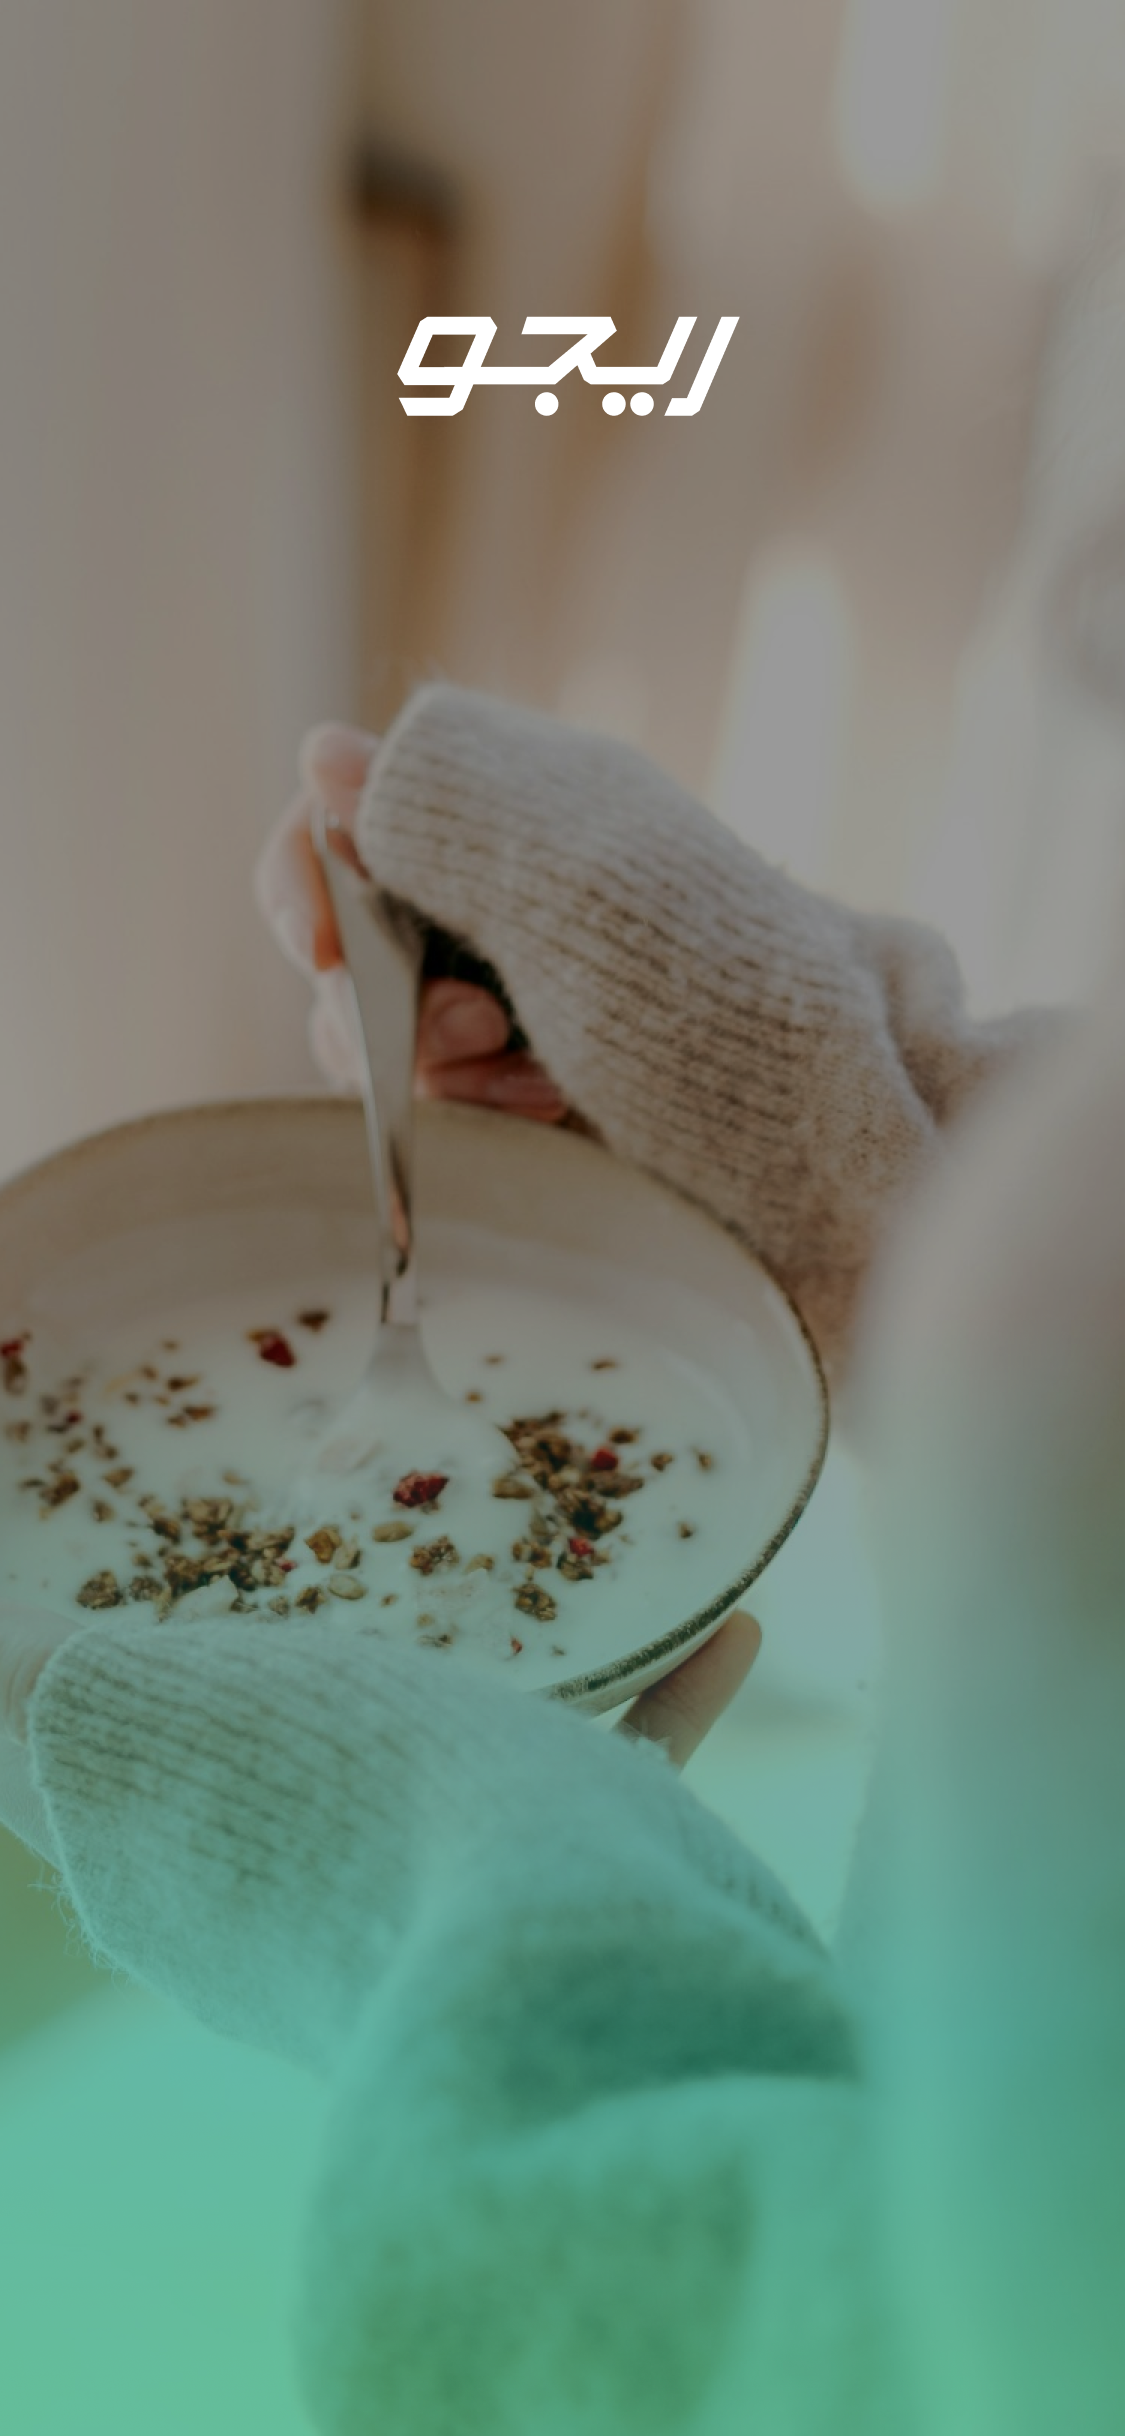
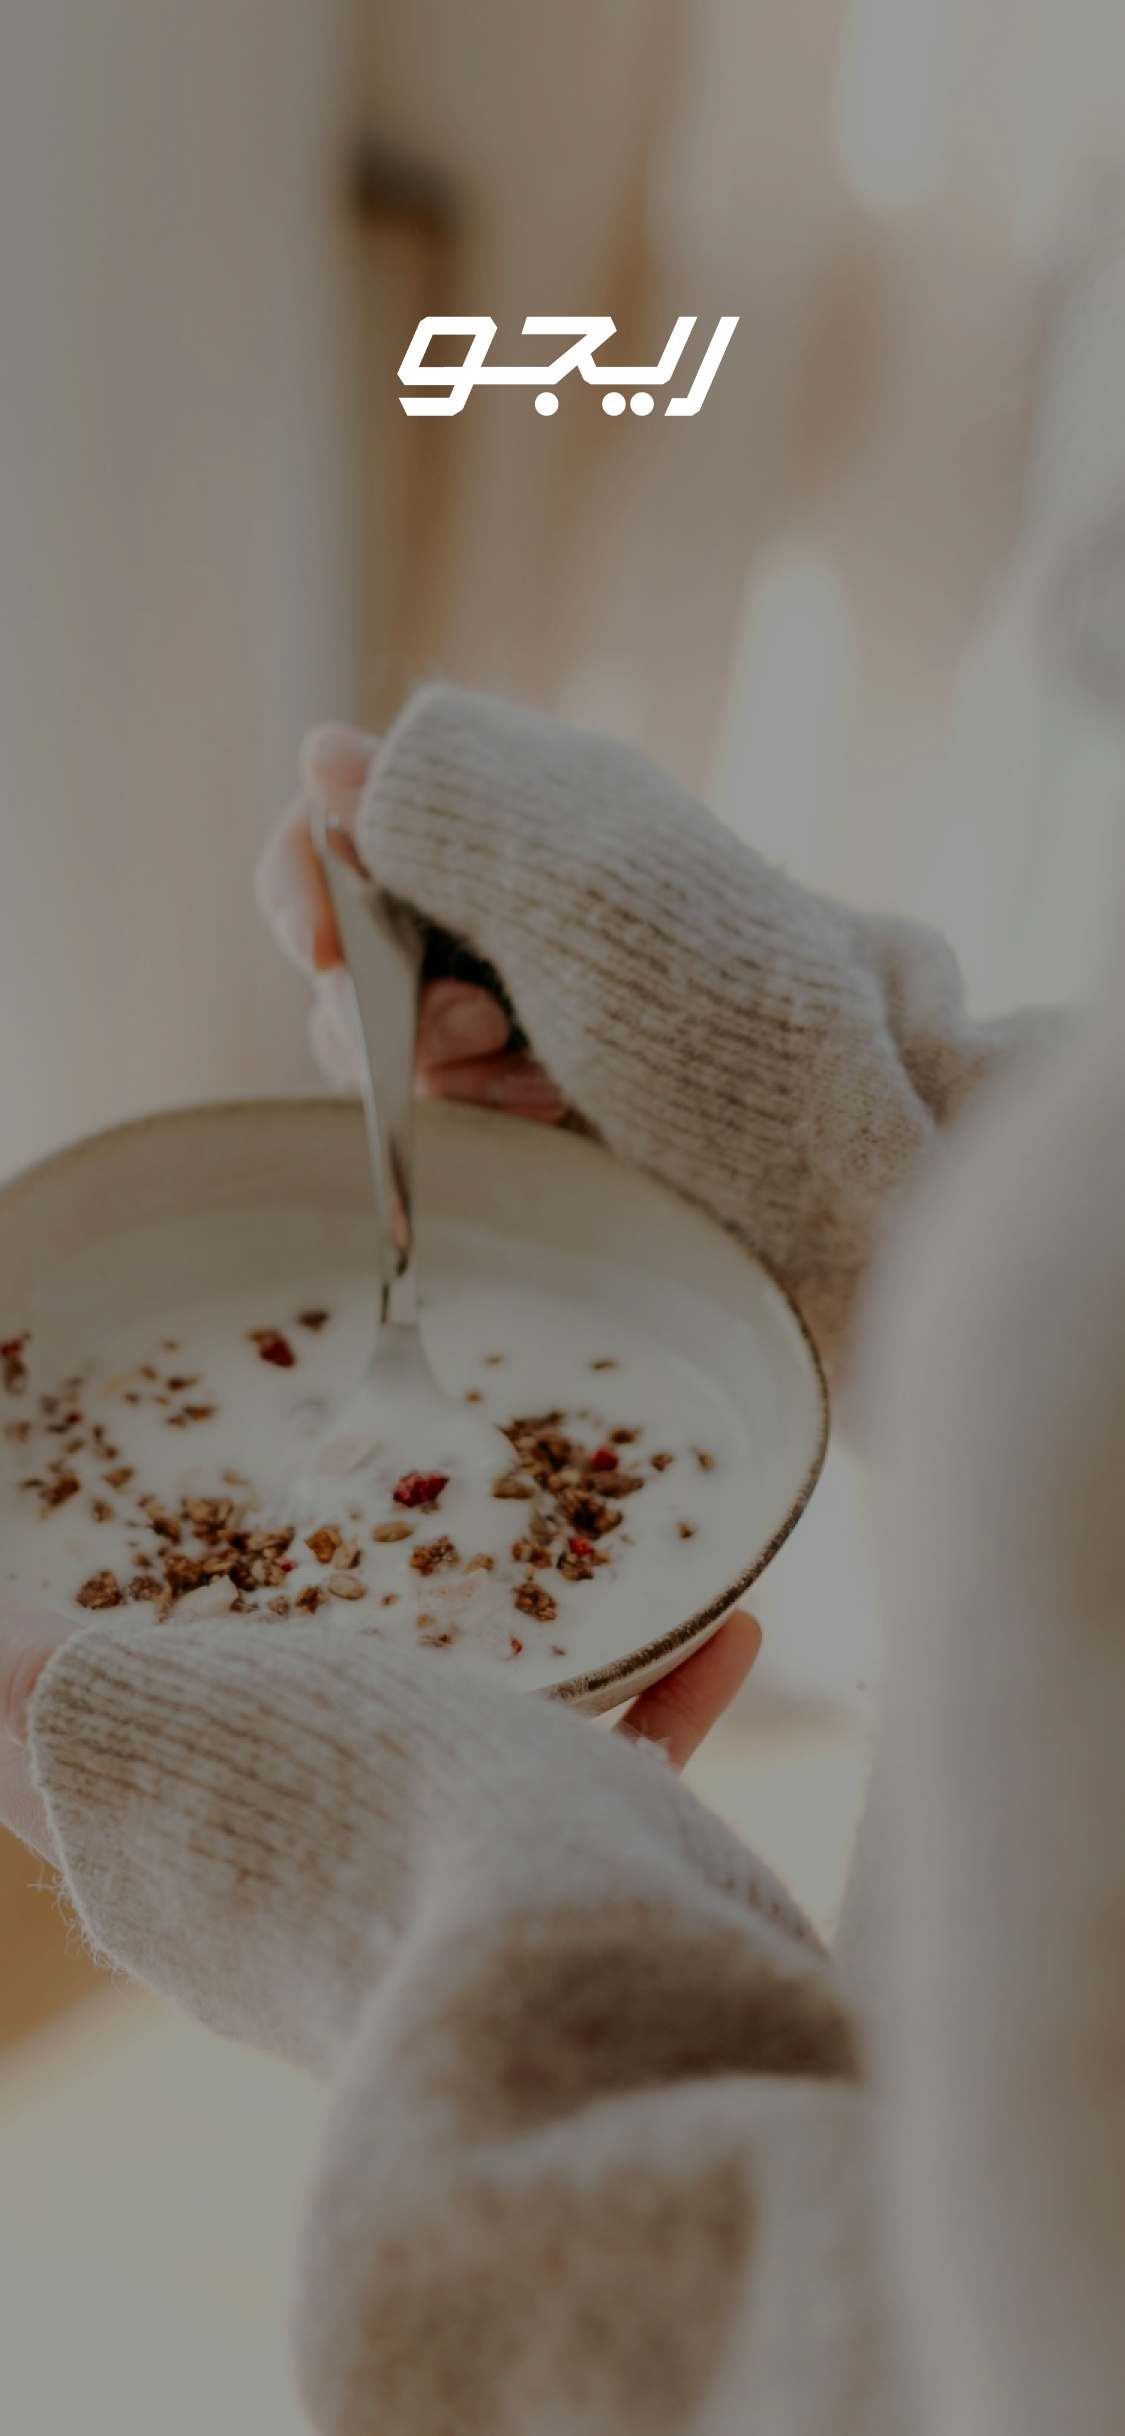
fix onboarding

diff --git a/lib/features/onboarding/screens/onboarding_page.dart b/lib/features/onboarding/screens/onboarding_page.dart
@@ -51,6 +51,7 @@ class _OnboardingScreenState extends State<OnboardingScreen> {
                     return OnboardingBody(
                       image: onboardingList[i].image,
                       title: onboardingList[i].title,
+                      colors: onboardingList[i].colors,
                       position: i,
                     );
                   },
@@ -59,7 +60,22 @@ class _OnboardingScreenState extends State<OnboardingScreen> {
             ],
           ),
           Stack(
+            alignment: Alignment.bottomCenter,
             children: [
+              IgnorePointer(
+                child: AnimatedContainer(
+                  duration: const Duration(milliseconds: 400),
+                  curve: Curves.easeIn,
+                  height: appHight(context, 0.5),
+                  decoration: BoxDecoration(
+                    gradient: LinearGradient(
+                      colors: onboardingList[currentPage].colors,
+                      begin: Alignment.bottomCenter,
+                      end: Alignment.topCenter,
+                    ),
+                  ),
+                ),
+              ),
               Padding(
                 padding: EdgeInsets.symmetric(
                     vertical: appHight(context, 0.1), horizontal: 16),
@@ -69,10 +85,12 @@ class _OnboardingScreenState extends State<OnboardingScreen> {
                   children: [
                     Padding(
                       padding: const EdgeInsets.symmetric(horizontal: 16),
-                      child: Text(
-                        onboardingList[currentPage].title,
-                        textAlign: TextAlign.center,
-                        style: AppTexts.subTitle,
+                      child: IgnorePointer(
+                        child: Text(
+                          onboardingList[currentPage].title,
+                          textAlign: TextAlign.center,
+                          style: AppTexts.subTitle,
+                        ),
                       ),
                     ),
                     const SizedBox(height: 46),
@@ -157,11 +175,13 @@ class OnboardingBody extends StatelessWidget {
     required this.position,
     required this.image,
     required this.title,
+    required this.colors,
   });
 
   final String image;
   final String title;
   final int position;
+  final List<Color> colors;
 
   @override
   Widget build(BuildContext context) {

diff --git a/lib/features/onboarding/widgets/onboarding_widget.dart b/lib/features/onboarding/widgets/onboarding_widget.dart
@@ -1,13 +1,15 @@
 // onboarding_model.dart
 
 import 'package:flutter/material.dart';
+import 'package:rigow/core/colors/app_colors.dart';
 import 'package:rigow/l10n/app_localizations.dart';
 
 class Onboarding {
   final String image;
   final String title;
+  final List<Color> colors;
 
-  Onboarding({required this.image, required this.title});
+  Onboarding({required this.image, required this.title, required this.colors});
 }
 
 List<Onboarding> createUserOnboardingList(BuildContext context) {
@@ -17,16 +19,19 @@ List<Onboarding> createUserOnboardingList(BuildContext context) {
       image:
           isArabic ? "assets/images/ar1.png" : "assets/images/onboarding1.png",
       title: AppLocalizations.of(context)!.onboarding1,
+      colors: AppColors.onbording1,
     ),
     Onboarding(
       image:
           isArabic ? "assets/images/ar2.png" : "assets/images/onboarding2.png",
       title: AppLocalizations.of(context)!.onboarding2,
+      colors: AppColors.onbording2,
     ),
     Onboarding(
       image:
           isArabic ? "assets/images/ar3.png" : "assets/images/onboarding3.png",
       title: AppLocalizations.of(context)!.onboarding3,
+      colors: AppColors.onbording3,
     ),
   ];
 }
@@ -39,17 +44,20 @@ List<Onboarding> createExpertOnboardingList(BuildContext context) {
           ? "assets/images/arexonboarding1.png"
           : "assets/images/exonboarding1.png",
       title: AppLocalizations.of(context)!.exonboarding1,
+      colors: AppColors.onbording1,
     ),
     Onboarding(
       image: isArabic
           ? "assets/images/arexonboarding2.png"
           : "assets/images/exonboarding2.png",
       title: AppLocalizations.of(context)!.exonboarding2,
+      colors: AppColors.onbording2,
     ),
     Onboarding(
       image:
           isArabic ? "assets/images/ar3.png" : "assets/images/onboarding3.png",
       title: AppLocalizations.of(context)!.onboarding3,
+      colors: AppColors.onbording3,
     ),
   ];
 }

diff --git a/lib/core/colors/app_colors.dart b/lib/core/colors/app_colors.dart
@@ -36,4 +36,21 @@ class AppColors {
     Color(0xff04FFAA),
     Color(0xff00F2D0),
   ];
+
+  static List<Color> onbording1 = [
+    const Color(0xff8B4EFF).withOpacity(0.40),
+    const Color(0xff6549FF).withOpacity(0.25),
+    const Color(0x056549FF).withOpacity(0.01)
+  ];
+  static List<Color> onbording2 = [
+    // from bottom to top
+    const Color(0xff00F2D0).withOpacity(0.40),
+    const Color(0xff00F2D0).withOpacity(0.17),
+    const Color(0xff00F2D0).withOpacity(0.01),
+  ];
+  static List<Color> onbording3 = [
+    const Color(0xff241C60).withOpacity(0.70),
+    const Color(0xff171047).withOpacity(0.50),
+    const Color(0xff171047).withOpacity(0.01),
+  ];
 }
